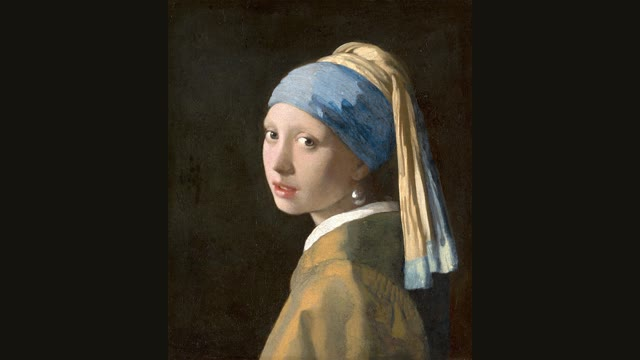
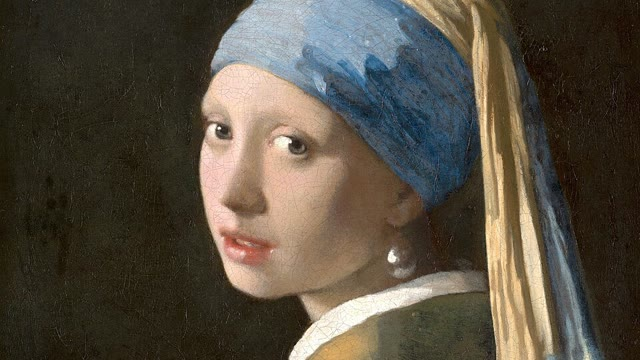
chore: crop the sample thumbnail to 16:9

diff --git a/docs/discovery/DECISIONS.md b/docs/discovery/DECISIONS.md
@@ -111,7 +111,7 @@
 | D103 | 2026-11-19 | PRD 변경 | 키프레임 분석 결과는 캐시에 남기지 않는다(목차 읽기·전체 읽기 모두). 근거: 실측 1GB TS 1.3초·AVI 0.5초(메모리에 있을 때), 디스크 속도가 정함(HDD 1GB 7~10초 추정), MKV·MP4는 목차 1초 안. 옵션 "캐시 비우기"는 자막 추출 캐시와 예전 키프레임 캐시를 지우는 데 그대로 둠 | [U] | Q089, Q090 | 전체 읽기 때만 캐시 (큰 TS를 자주 다시 열 때만 이득) | 확정 |
 | D104 | 2026-11-19 | PRD 변경 | 전체 테스트 기준 15초 → 20초. 작업마다 전체를 돌리는 규칙은 그대로 (실제 ffmpeg로 시험 영상을 만드는 시험이 늘어 14.9~15.1초) | [U] | Q089 | 작업마다 관련 시험만 / 시험 줄이기 | 확정 |
 | D105 | 2026-11-19 | PRD 변경 | 파일이 열린 화면에는 [파일 열기] 버튼을 두지 않는다(창 크기와 무관). 다른 파일은 메뉴 "파일 열기…"(Ctrl+O)·창 어디든 끌어다 놓기로. 파일이 없을 때 끌어다 놓기 영역의 큰 [파일 열기]는 그대로. 정지해도 파일은 남음(다시 재생 가능, 지금 동작) | [U] | Q092 | 썸네일이 보일 때만 숨김 (창 크기에 따라 바뀜) / 작은 폴더 아이콘 (길이 이미 셋) | 확정 |
-| D106 | 2026-11-19 | PRD 변경 | README 이미지의 썸네일 그림은 페르메이르 "진주 귀걸이를 한 소녀"(c. 1665, 퍼블릭 도메인, 위키미디어 공용 PD-Art). 960px 축소본을 받아 640×360(양옆 어두운 색)으로 `docs/images/thumb-sample.jpg`, 원본은 지움. README에 출처 한 줄. 같은 이름의 2003년 영화 장면은 쓰지 않음 | [U] | Q092 | ffmpeg로 만든 그림 / CC BY 공개 영화 장면 | 확정 |
+| D106 | 2026-11-19 | PRD 변경 | README 이미지의 썸네일 그림은 페르메이르 "진주 귀걸이를 한 소녀"(c. 1665, 퍼블릭 도메인, 위키미디어 공용 PD-Art). 960px 축소본을 받아 16:9로 잘라(얼굴·진주 귀걸이·옷깃, 사용자가 A안 선택) 640×360으로 `docs/images/thumb-sample.jpg`, 원본은 지움. README에 출처 한 줄. 같은 이름의 2003년 영화 장면은 쓰지 않음 | [U] | Q092 | ffmpeg로 만든 그림 / CC BY 공개 영화 장면 | 확정 |
 | D089 | 2026-11-19 | PRD 변경 | README 맨 위에 작동 장면 GIF 1개: 가짜 TV 연결로 연결 → 파일 열기 → 불러오기 진행 → 재생 중 탐색·음성·자막 바꾸기를 장면별로 찍고 ffmpeg로 묶음(새 의존성 없음), 예시 이름만, 약 2MB 이하. 이미지는 English 화면으로 6개 README가 같이 씀[AI]. 마우스 포인터·끌어다 놓기 동작은 안 보임 | [U] | Q076 | 직접 화면 녹화 (기기·파일 이름 노출, 손으로 갱신) / 정지 화면만 | 확정 |
 
 ## 재논의 금지 규칙
